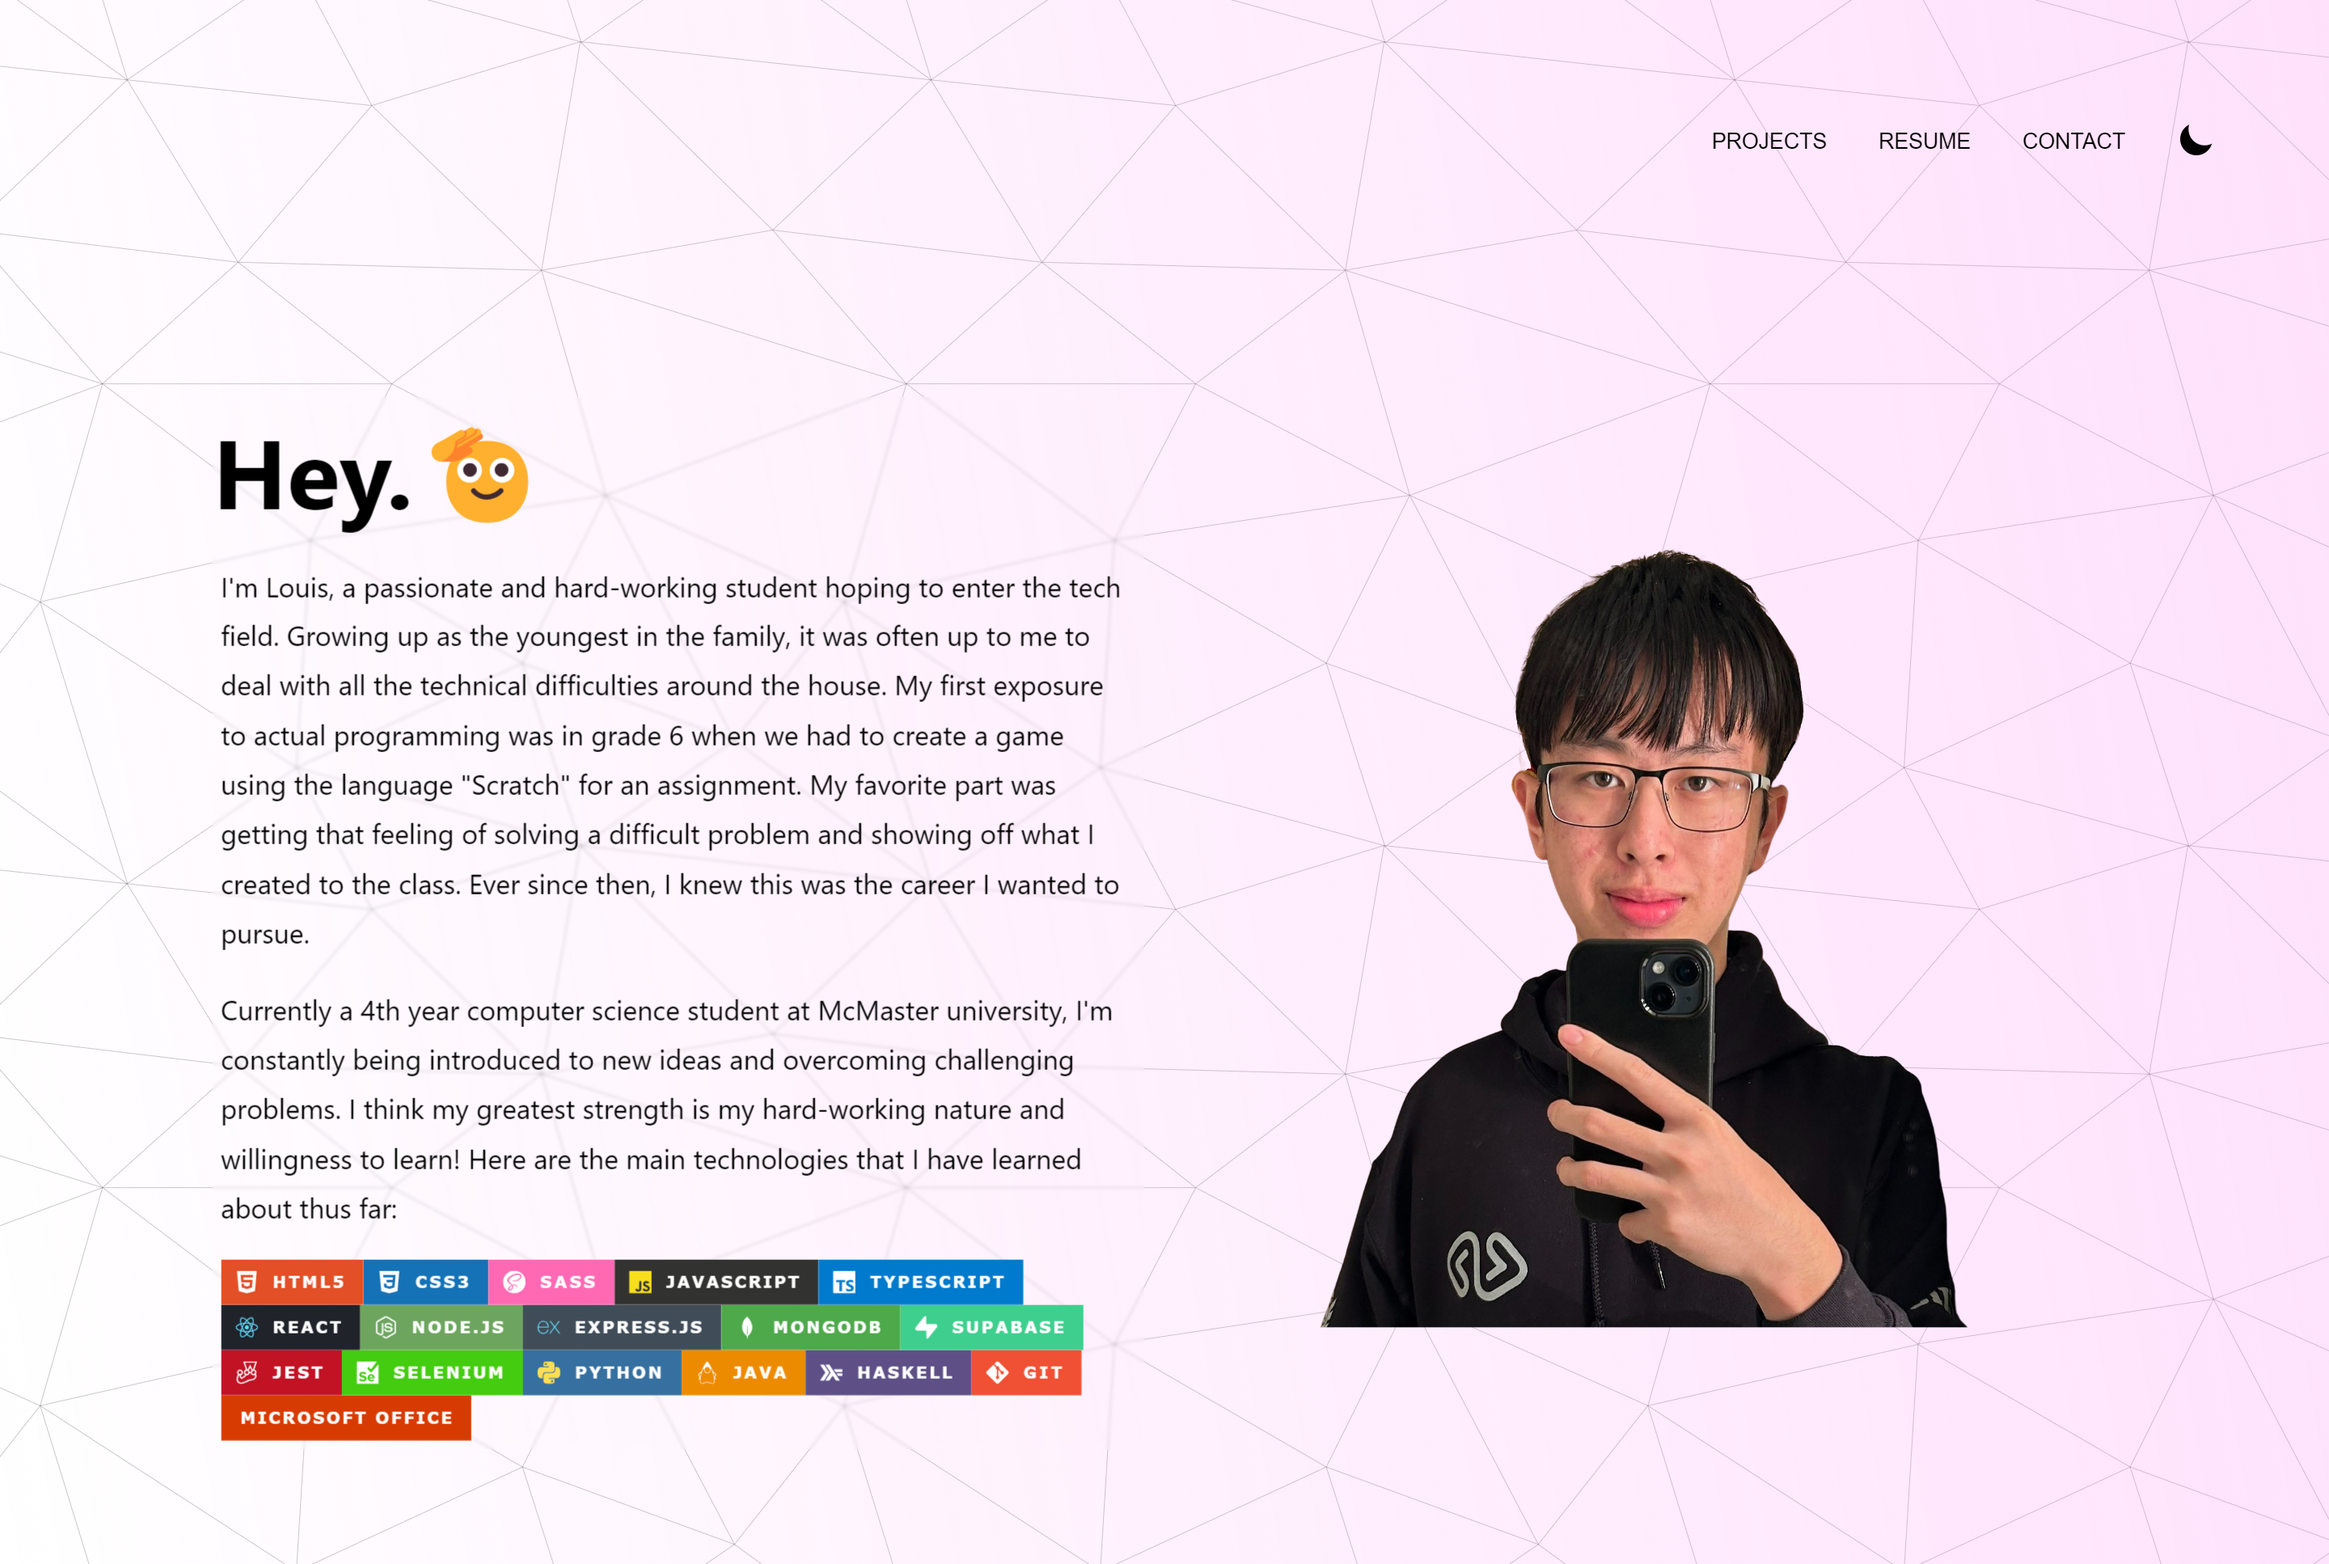
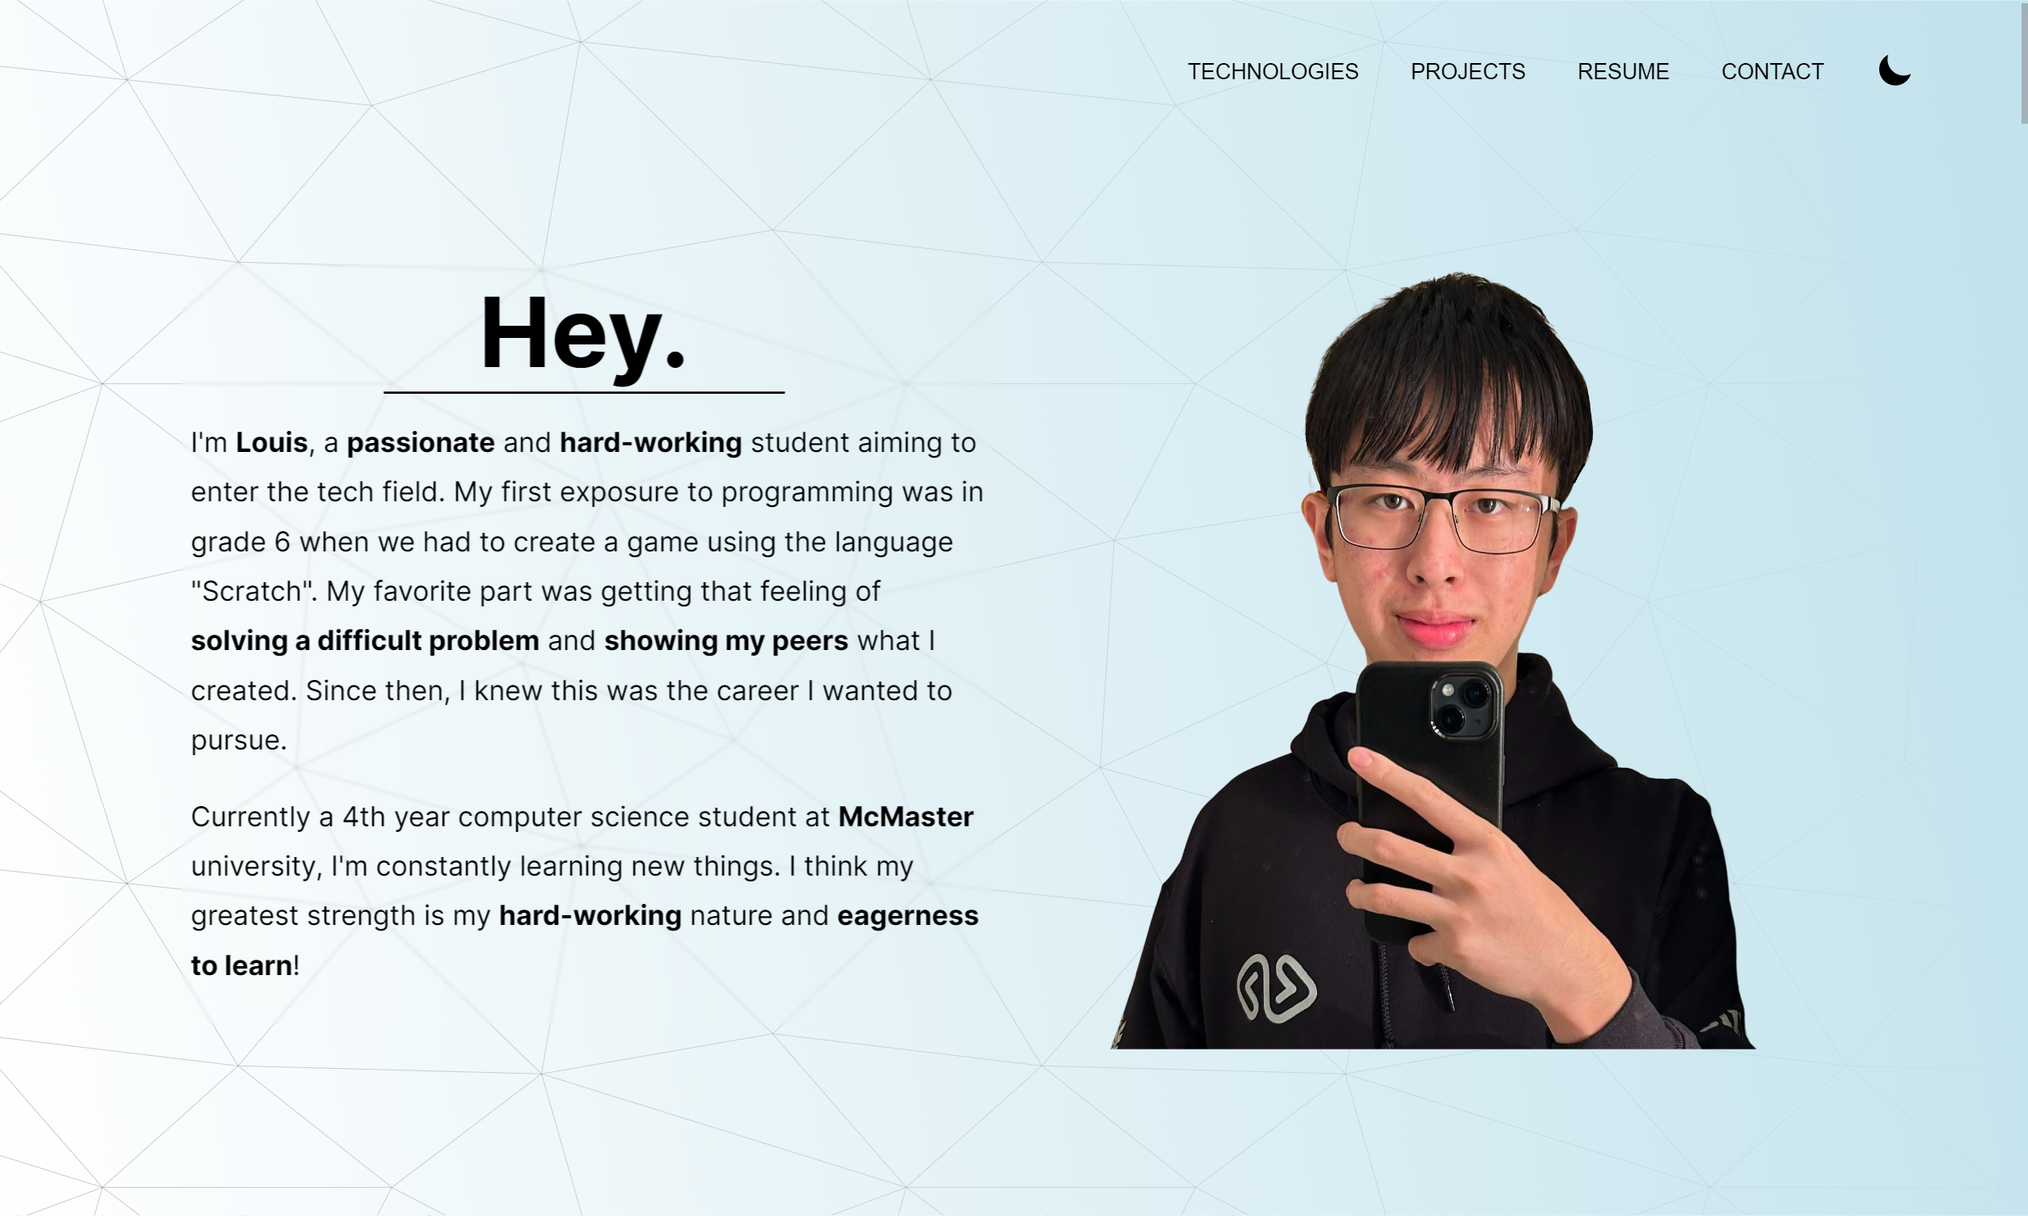
Update README

diff --git a/README.md b/README.md
@@ -3,11 +3,11 @@
 ![React](https://img.shields.io/badge/react-%2320232a.svg?style=for-the-badge&logo=react&logoColor=%2361DAFB)
 ![SASS](https://img.shields.io/badge/SASS-hotpink.svg?style=for-the-badge&logo=SASS&logoColor=white)
 
-Personal portfolio website displaying personal information, projects, resume and a contact form.
+Personal portfolio website displaying personal information, technologies, projects, resume and a contact form.
 
 ## Deployment 🚀
 
-https://louisdoan.vercel.app/
+https://www.louisdoan.com/
 
 ## Screenshots 📸
 
@@ -16,3 +16,5 @@ https://louisdoan.vercel.app/
 ![App Screenshot 3](./README_images/portfolio3.png)
 ![App Screenshot 4](./README_images/portfolio4.png)
 ![App Screenshot 5](./README_images/portfolio5.png)
+![App Screenshot 6](./README_images/portfolio6.png)
+![App Screenshot 7](./README_images/portfolio7.png)
